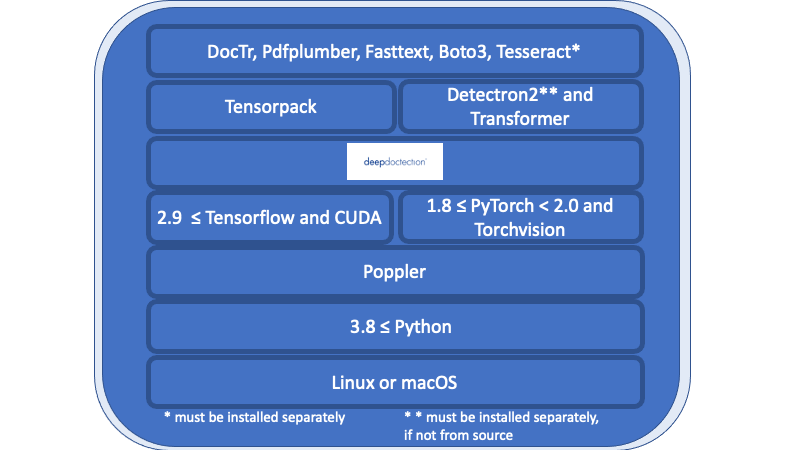
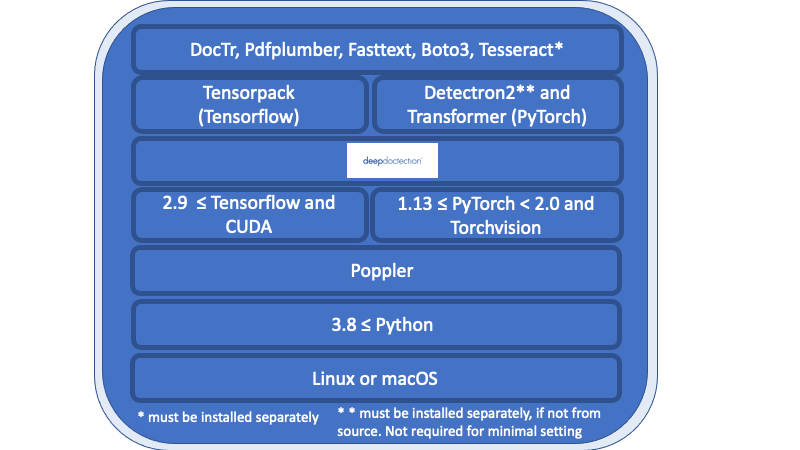
update docs [docs]

Changed region(s): [[0.1562, 0.0, 0.875, 1.0], [0.125, 0.9022, 0.1562, 0.9333]]

diff --git a/README.md b/README.md
@@ -33,9 +33,8 @@ pipelines. Its core function does not depend on any specific deep learning libra
  - Deskewing and rotating images with [**jdeskew**](https://github.com/phamquiluan/jdeskew). 
  - Document and token classification with all LayoutLM models provided by the Transformer library. 
    (Yes, you can use any LayoutLM-model with any of the provided OCR-or pdfplumber tools straight away!).
-   Table detection and table structure recognition with 
-   [**table-transformer**](https://github.com/microsoft/table-transformer). You can try a pipeline using 
-   [**this script**](https://github.com/deepdoctection/deepdoctection/discussions/116).  
+ - Table detection and table structure recognition with 
+   [**table-transformer**](https://github.com/microsoft/table-transformer). 
  - There is a small dataset for token classification [available](https://huggingface.co/datasets/deepdoctection/FRFPE)
    and a lot of new [tutorials](https://github.com/deepdoctection/notebooks/blob/main/Layoutlm_v2_on_custom_token_classification.ipynb) 
    to show, how to train and evaluate this dataset using LayoutLMv1, LayoutLMv2, LayoutXLM and LayoutLMv3.
@@ -144,17 +143,14 @@ images.
 
 The following overview shows the availability of the models in conjunction with the DL framework.
 
-| Task                                          | PyTorch |  Tensorflow  |
-|-----------------------------------------------|:-------:|:------------:|
-| Layout detection via Detectron2/Tensorpack    |    ✅    | ✅ (GPU only) |
-| Table recognition via Detectron2/Tensorpack   |    ✅    | ✅ (GPU only) |
-| Table transformer via Transformers            |    ✅    |      ❌       |
-| DocTr                                         |    ✅    |      ✅       |
-| LayoutLM (v1, v2, v3, XLM) via Transformers   |    ✅    | ❌            |
-| Tesseract (DL library agnostic)               |    ✅    | ✅           |
-| Fasttext (DL library agnostic)                |    ✅    | ✅           |
-| jdeskew (DL library agnostic)                 |    ✅    | ✅           |
-| Pdfplumber (DL library agnostic)              |    ✅    | ✅           |
+| Task                                          | PyTorch | Torchscript    |  Tensorflow  |
+|-----------------------------------------------|:-------:|----------------|:------------:|
+| Layout detection via Detectron2/Tensorpack    |    ✅    | ✅ (CPU only)   | ✅ (GPU only) |
+| Table recognition via Detectron2/Tensorpack   |    ✅    | ✅ (CPU only)   | ✅ (GPU only) |
+| Table transformer via Transformers            |    ✅    | ❌              |      ❌       |
+| DocTr                                         |    ✅    | ❌              |      ✅       |
+| LayoutLM (v1, v2, v3, XLM) via Transformers   |    ✅    | ❌              | ❌            |
+
 
 
 ## Installation
@@ -163,12 +159,19 @@ We recommend using a virtual environment. You can install the package via pip or
 
 ### Install with pip from PyPi
 
+#### Minimal installation 
+
 If you want to get started with a minimal setting (e.g. running the **deep**doctection analyzer with 
 default configuration or trying the 'Get started notebook'), install **deep**doctection with
 
 ```
 pip install deepdoctection
 ```
+
+If you want to use the Tensorflow framework, please install Tensorpack separately. Detectron2 will not be installed 
+and layout models/ table recognition models will run with Torchscript on a CPU.
+
+#### Full installation
 
 The following installation will give you ALL models available within the Deep Learning framework as well as all models
 that are independent of Tensorflow/PyTorch. Please note, that the dependencies are very complex. We try hard to keep 

diff --git a/docs/install.md b/docs/install.md
@@ -30,19 +30,14 @@ instruction.
 
 The following overview shows the availability of the models in conjunction with the DL framework.
 
+| Task                                          | PyTorch | Torchscript    |  Tensorflow  |
+|-----------------------------------------------|:-------:|----------------|:------------:|
+| Layout detection via Detectron2/Tensorpack    |    ✅    | ✅ (CPU only)   | ✅ (GPU only) |
+| Table recognition via Detectron2/Tensorpack   |    ✅    | ✅ (CPU only)   | ✅ (GPU only) |
+| Table transformer via Transformers            |    ✅    | ❌              |      ❌       |
+| DocTr                                         |    ✅    | ❌              |      ✅       |
+| LayoutLM (v1, v2, v3, XLM) via Transformers   |    ✅    | ❌              | ❌            |
 
-
-| Task                                          | PyTorch |  Tensorflow  |
-|-----------------------------------------------|:-------:|:------------:|
-| Layout detection via Detectron2/Tensorpack    |    ✅    | ✅ (GPU only) |
-| Table recognition via Detectron2/Tensorpack   |    ✅    | ✅ (GPU only) |
-| Table transformer via Transformers            |    ✅    |      ❌       |
-| DocTr                                         |    ✅    |      ✅       |
-| LayoutLM (v1, v2, v3, XLM) via Transformers   |    ✅    | ❌            |
-| Tesseract (DL library agnostic)               |    ✅    | ✅           |
-| Fasttext (DL library agnostic)                |    ✅    | ✅           |
-| jdeskew (DL library agnostic)                 |    ✅    | ✅           |
-| Pdfplumber (DL library agnostic)              |    ✅    | ✅           |
 
 ## Install with pip
 
